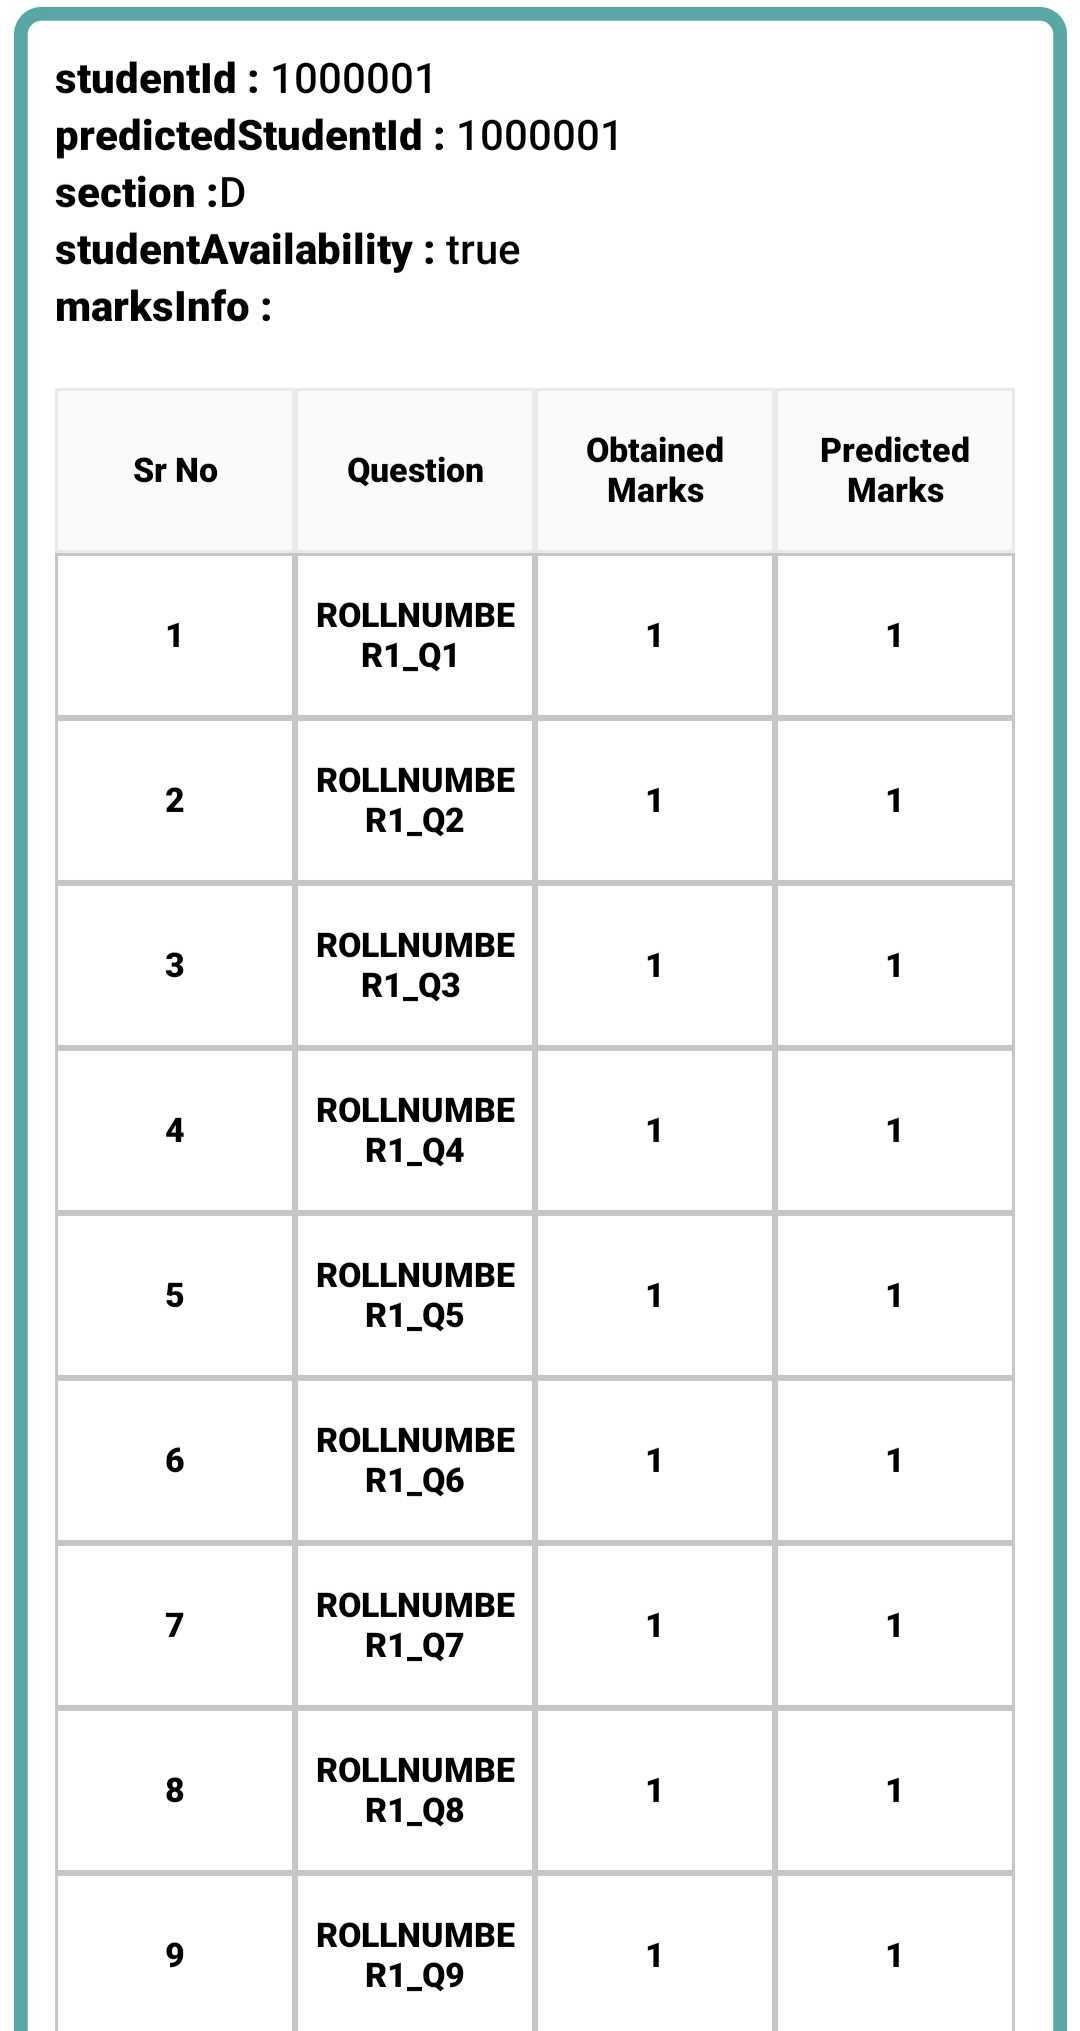
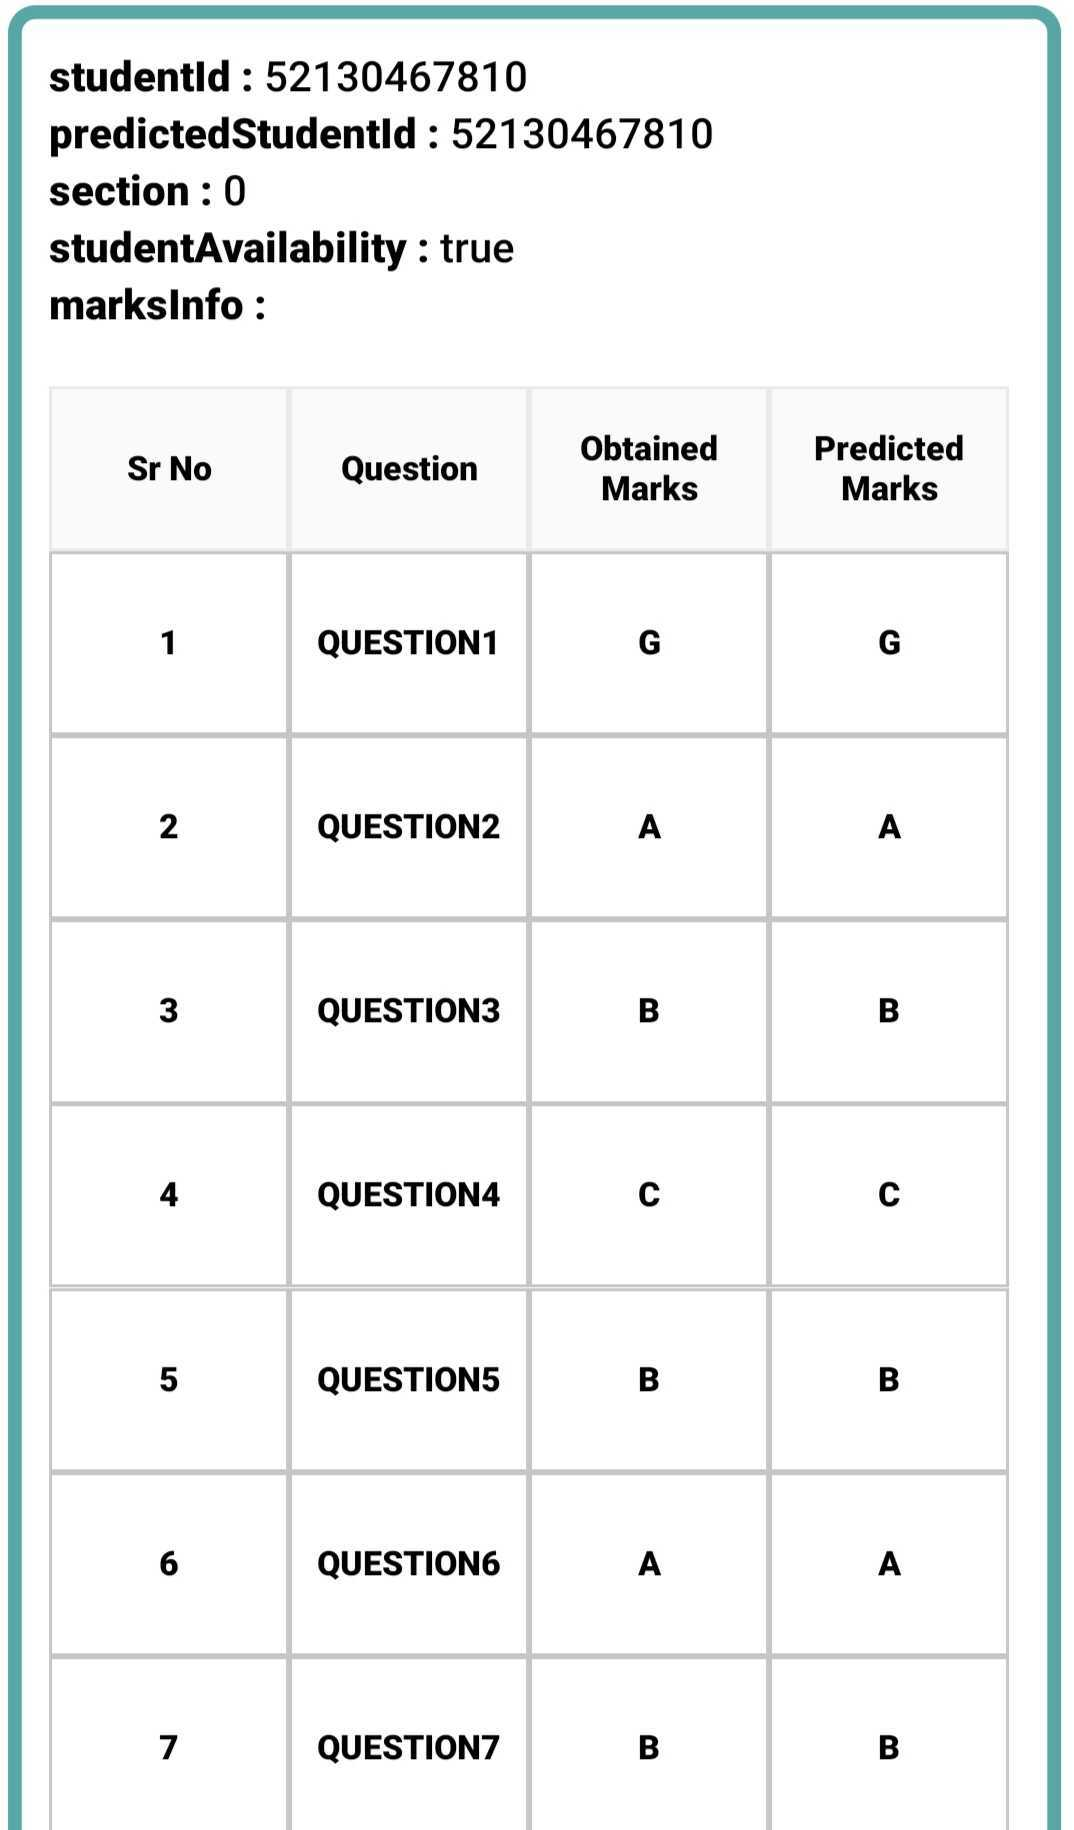
GitBook: [#138] No subject

diff --git a/learn/features/review-results-marks-feature.md b/learn/features/review-results-marks-feature.md
@@ -1,5 +1,5 @@
-# Review Results/Marks Feature
+# Review results/marks Feature
 
-From v1.5.7 release user will have option to review the scanned and saved results from Scan Status and Save Status screens.
+From `v1.5.7` release user will have option to review the scanned and saved results from Scan Status and Save Status screens. Review popup will show both obtained marks and predicted marks. Predicted marks is marks detected by the model where is Obtained marks is the final marks/results submitted by the user.
 
-![](<../../.gitbook/assets/image (6).png>)![](<../../.gitbook/assets/image (3).png>)![](<../../.gitbook/assets/image (7).png>)![](<../../.gitbook/assets/image (5).png>)
+![](<../../.gitbook/assets/image (7).png>)![](<../../.gitbook/assets/image (4).png>)![](../../.gitbook/assets/image.png)![](<../../.gitbook/assets/image (3).png>)

diff --git a/learn/features/minimal-mode.md b/learn/features/minimal-mode.md
@@ -19,10 +19,10 @@ For non-academic use-cases, there will be no fixed participants like students an
 }
 ```
 
-![](<../../.gitbook/assets/image (4).png>) ![](<../../.gitbook/assets/image (8).png>) ![](<../../.gitbook/assets/image (1) (1).png>)&#x20;
+![](<../../.gitbook/assets/image (4) (1).png>) ![](<../../.gitbook/assets/image (2).png>) ![](<../../.gitbook/assets/image (1) (1).png>)&#x20;
 
 From `v1.5.6` release and above, a switch option is added to switch between Regular and Minimal mode.&#x20;
 
-![](<../../.gitbook/assets/image (5) (1).png>)![](<../../.gitbook/assets/image (3) (1).png>)
+![](<../../.gitbook/assets/image (5).png>)![](<../../.gitbook/assets/image (3) (1).png>)
 
 For minimal mode , classsId and sectionId will be defaulted to `0.`Backend data can be differentiated using these field values.

diff --git a/SUMMARY.md b/SUMMARY.md
@@ -19,7 +19,7 @@
   * [Minimal Mode](learn/features/minimal-mode.md)
   * [Offline mode](learn/features/offline-mode.md)
   * [App Force Update](learn/features/app-force-update.md)
-  * [Review Results/Marks Feature](learn/features/review-results-marks-feature.md)
+  * [Review results/marks Feature](learn/features/review-results-marks-feature.md)
 * [Specifications](learn/specifications/README.md)
   * [Layout specification](learn/specifications/layout-specification.md)
   * [Backend API Swagger Doc](learn/specifications/backend-api-swagger-doc.md)

diff --git a/learn/features/dynamic-tagging.md b/learn/features/dynamic-tagging.md
@@ -18,5 +18,5 @@ This feature can be enabled when `/schools/login` response has `tags` field set 
 }
 ```
 
-![](<../../.gitbook/assets/image (3) (1) (2).png>) ![](<../../.gitbook/assets/image (1).png>)
+![](<../../.gitbook/assets/image (3) (1) (2).png>) ![](<../../.gitbook/assets/image (1) (2).png>)
 
